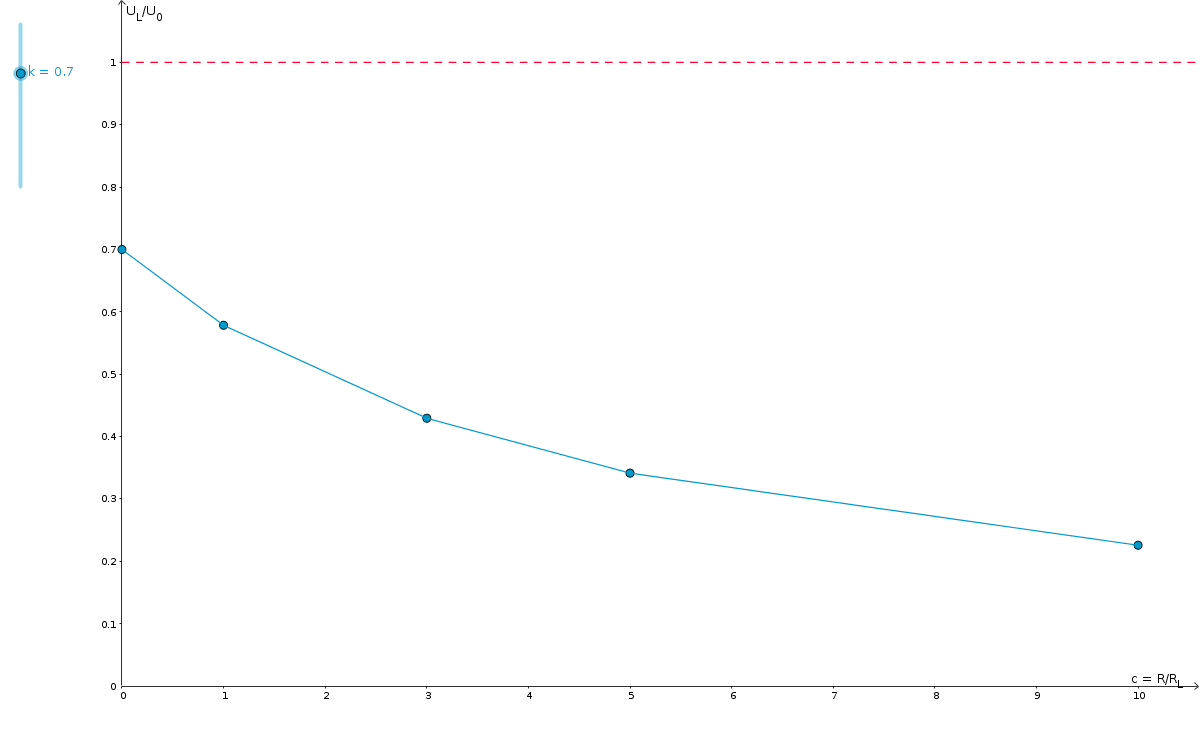
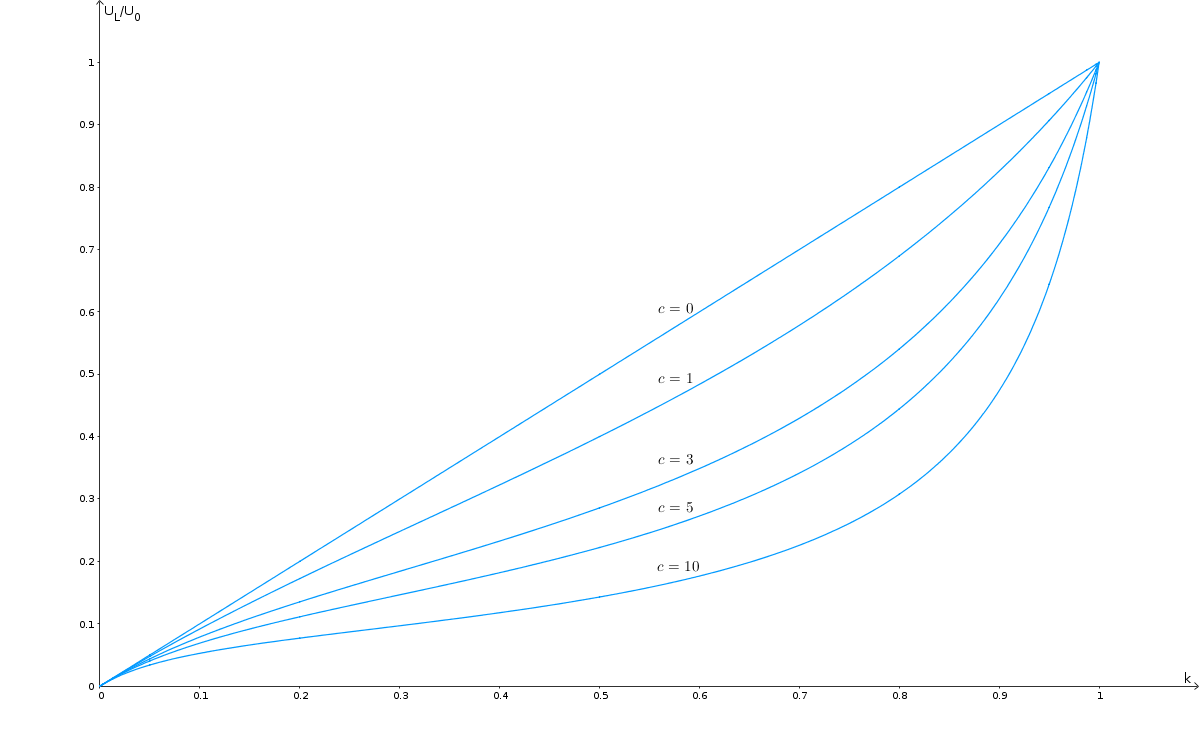
Complete exercise 4

diff --git a/17-ss/est/uebung-4/index.html b/17-ss/est/uebung-4/index.html
@@ -88,8 +88,16 @@ mathjax: true
     <p>Um die Ausgangsspannung \( U_L \) zu berechnen wird der Gesamtwiderstand \( R_{ges} \) benötigt. Dieser lässt sich mit einem alternativen Schaltbild herleiten.</p>
 
     <figure>
-        <img src="{{ site.baseurl }}/img/17-ss/est/ex-4-task-2a.png">
+        <img src="{{ site.baseurl }}/img/17-ss/est/ex-4-task-2a-1.png">
         <figcaption>
+            Ursprüngliche Schaltung
+        </figcaption>
+    </figure>
+
+    <figure>
+        <img src="{{ site.baseurl }}/img/17-ss/est/ex-4-task-2a-2.png">
+        <figcaption>
+            Ersatzschaltung mit \( R_1 = (1-k)R \) und \( R_2 = kR \).
         </figcaption>
     </figure>
 
@@ -125,13 +133,15 @@ mathjax: true
     \begin{align*}
         U_L &amp;= \frac{ R_2 R_L }{ R_1 (R_2 + R_L) + R_2 R_L } \cdot U_0 \\
         &amp;= \frac{ R_2 R_L }{ R_1 R_2 + R_1 R_L + R_2 R_L } \cdot U_0 \\
-        &amp;= \frac{ R_2 R_L }{ R_L \cdot (R_1 R_2 \frac{ 1 }{ R_L } + R_1 + R_2) } \cdot U_0 \\
+        &amp;= \frac{ R_2 R_L }{ R_L (R_1 R_2 \frac{ 1 }{ R_L } + R_1) + R_2 R_L } \cdot U_0 \\
         &amp;= \frac{ R_2 }{ R_1 R_2 \frac{ 1 }{ R_L } + R_1 + R_2 } \cdot U_0 \\
-        &amp;= \frac{ kR }{ (1-k)R \cdot k \frac{ R }{ R_L } + R } \cdot U_0 \\
+        &amp;= \frac{ kR }{ (1-k)R \cdot kR \frac{ 1 }{ R_L } + (1-k)R + kR } \cdot U_0 \\
+        &amp;= \frac{ k }{ (1-k) k c + (1-k) + k } \cdot U_0 \\
+        &amp;= \frac{ 1 }{ (1-k) c + \frac{ 1 }{ k } } \cdot U_0 \\
     \end{align*}
 
     \begin{align*}
-        \Rightarrow~ \frac{ U_L }{ U_0 } &amp;= \frac{ kR }{ (1-k)R \cdot k \cdot c + R } \\
+        \Rightarrow~ \frac{ U_L }{ U_0 } &amp;= \frac{ 1 }{ (1-k) c + \frac{ 1 }{ k } } \\
     \end{align*}
 
     <h3 id="4.2b">b) Grafische Darstellung</h3>
